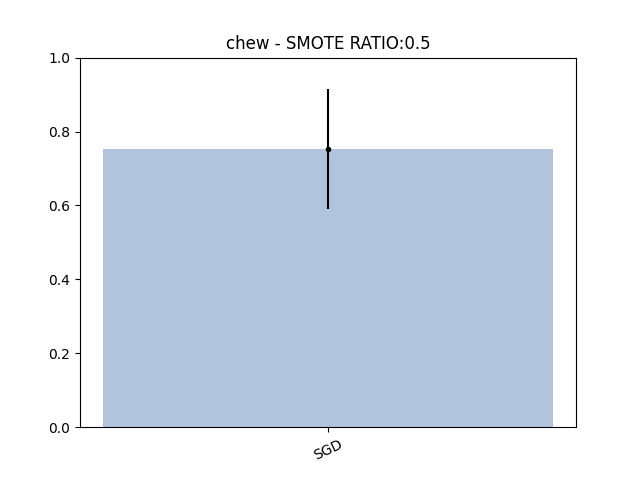
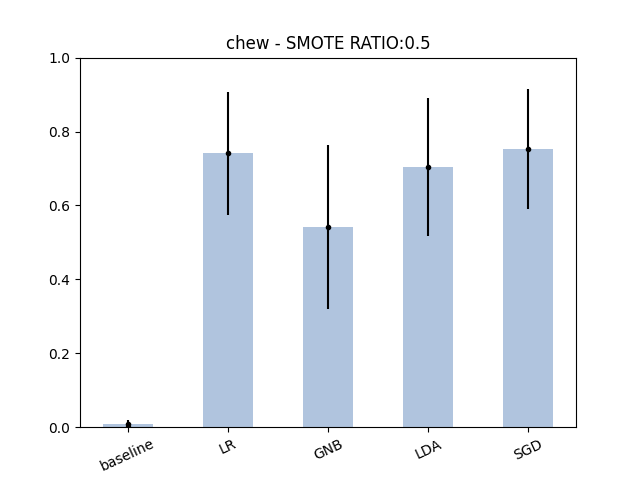
noise add

diff --git a/models/noiseAddition.py b/models/noiseAddition.py
@@ -1,4 +1,4 @@
-import os, time
+import os, time, mne, shutil, glob
 import numpy as np
 from collections import defaultdict
 import prepData.loadData as loadData
@@ -59,14 +59,15 @@ def generateNoisyData(data_path, save_path, file_selected, windowsOS=False, cuto
 
 
         # NOISE ADDITION STEP!
+        orig_object = proc_subject["rawData"]
         raw_signals = proc_subject["rawData"].get_data()
         n_chan, n_obs = raw_signals.shape
         noisy_signals = np.empty((n_chan, n_obs))
 
 
-        # TODO: Ask if Gaussian white noise should be applied differently to all channels
+        # TODO: Zero mean with variance as parameter - maybe covariance?
         for i, chan_signal in enumerate(raw_signals):
-            mean = np.mean(chan_signal)
+            mean = 0
             std = np.std(chan_signal)
             white_noise = np.random.normal(mean, std, n_obs)
 
@@ -78,13 +79,38 @@ def generateNoisyData(data_path, save_path, file_selected, windowsOS=False, cuto
             else:
                 noise = white_noise
 
+            # GAUSSIAN NOISE FUNCTION I MNE (KAN NOK IKKE HÅNDTERE COLORED NOISE
             noisy_signals[i] = chan_signal + noise
 
-        # TODO: Hvordan får man det tilbage til det originale data-format? (RAW_EDF-ish)
+        orig_object._data = noisy_signals
+        proc_subject["rawData"] = orig_object
 
-        proc_subject["rawData"] = noisy_signals   #TODO: REFRAME IT TO THE RAW_EDF-file format!
+        # TODO: CHANGE FILE NAME!
+        # Create directories for saving noisy files similarly to normal files
+        filename = orig_object.filenames[0]
+        filename = filename.split("\\")
+        folder_pos = [i for i, m in enumerate(filename) if m == "TUH_EEG_CORPUS"][0]
+        orig_path = ("\\").join(filename[:-1])
+        filename[folder_pos] = "NoisyTUH"
+        try:
+            os.makedirs(("\\").join(filename[:-1]))
+        except FileExistsError:
+            print("Directory is already created!")
 
+        fileList = [i for i in glob.glob(orig_path + "\\" + "**")]
+        for item in fileList:
+            src = item
 
+            dst = filename[:-1]
+            dst.append(item.split("\\")[-1])
+            dst = ("\\").join(dst)
+
+            shutil.copyfile(src, dst)
+
+        proc_subject['path'] = [("\\").join(filename[folder_pos:])]
+
+        proc_subject = readRawEdf(proc_subject, saveDir=save_dir, tWindow=1, tStep=1 * .25,  # 75% temporalt overlap
+                                  read_raw_edf_param={'preload': True})  # ,
 
         # find data labels
         labelPath = subjects[subject_ID][edf]['path'][-1].split(".edf")[0]
@@ -118,7 +144,7 @@ def generateNoisyData(data_path, save_path, file_selected, windowsOS=False, cuto
 
 
     toc = time.time()
-
+    mne.simulation.add_noise(proc_subject["rawData"], )
 
     print("\n~~~~~~~~~~~~~~~~~~~~\n"
           "it took %imin:%is to run preprocess-pipeline for %i patients\n with window length [%.2fs] and t_step [%.2fs]"
@@ -135,16 +161,14 @@ if __name__ == '__main__':
 
     # What is your execute path? #
 
-    # TODO: Eventually change name of prep_dir
-
     if windowsOS:
         save_dir = r"C:\Users\Albert Kjøller\Documents\GitHub\TUAR_full_data" + "\\"
         TUAR_dir = r"TUH_EEG_CORPUS\artifact_dataset" + "\\"
-        prep_dir = r"noiseAddition" + "\\"
+        prep_dir = r"tempData" + "\\"
     else:
         save_dir = r"/Users/AlbertoK/Desktop/EEG/subset" + "/"
         TUAR_dir = r"data_TUH_EEG/TUH_EEG_CORPUS/artifact_dataset" + "/"  # \**\01_tcp_ar #\100\00010023\s002_2013_02_21
-        prep_dir = r"noiseAddition" + "/"
+        prep_dir = r"tempData" + "/"
 
         # Albert path mac: save_dir = r"/Users/AlbertoK/Desktop/EEG/subset" + "/"
         # Aron:

diff --git a/evaluation/getResults.py b/evaluation/getResults.py
@@ -186,7 +186,6 @@ def plotPerformanceClasses(performance_dict, error_dict, model_names, artifact_n
     performance_vals = np.array(list(performance_dict.values())[:art])
     error_vals = np.array(list(error_dict.values())[:art])
 
-    model_names = [name.split("_")[0] for name in model_names]
     for indv_art, name in enumerate(artifact_names):
         plt.bar(x=model_names, height=performance_vals[indv_art, :], width=0.5, color="lightsteelblue")
         plt.errorbar(x=model_names, y=performance_vals[indv_art, :], yerr=error_vals[indv_art, :], fmt='.',
@@ -256,20 +255,22 @@ if __name__ == '__main__':
     else:
         slash = "/"
 
+    merged_file = True
+
     experiment = "smote"
+    experiment_name = '_smote_SGD'
+    experiment_name_merge = 'smote_first_merge'
+
 
     pickle_path = dir + slash + "results" + slash + "performance" + slash + experiment
     pickle_path_merge = dir + slash + "results" + slash + "merged_files" + slash + experiment
 
-    merged_file = True
-    experiment_name = '_smote_SGD'
-    experiment_name_merge = 'smote_first_merge'
 
     if merged_file:
         experiment_name = experiment_name_merge
 
-    # Merge individual result-files
-    #mergeResultFiles(file_path=pickle_path, file_name="smote_first_merge", windowsOS=windowsOS)
+        # Merge individual result-files
+        mergeResultFiles(file_path=pickle_path, file_name="smote_first_merge", windowsOS=windowsOS)
 
 
     # Loading statistically calculated results as dictionaries
@@ -278,7 +279,7 @@ if __name__ == '__main__':
     performance_list, errors_list, model_names, artifact_names, SMOTE_ratios = tableResults(pickle_path=pickle_path, windows_OS=windowsOS, experiment_name=experiment_name, merged_file=merged_file, windowsOS=windowsOS)
 
     # Save plots or not
-    save_img = False
+    save_img = True
 
     # For merged files
     #performance, errors, model_names, artifact_names = tableResults(pickle_path=pickle_path_merge, windows_OS=windowsOS, experiment_name=experiment_name_merge, merged_file=True)

diff --git a/prepData/preprocessPipeline.py b/prepData/preprocessPipeline.py
@@ -5,6 +5,7 @@ from mne.io import read_raw_edf
 import numpy as np
 # from ../LoadFarrahTueData.loadData import jsonLoad
 from prepData.loadData import *
+import prepData.loadData as loadData
 # import NovelEEG.SampleCode.loadData
 from scipy import signal, stats
 import matplotlib.pyplot as plt
